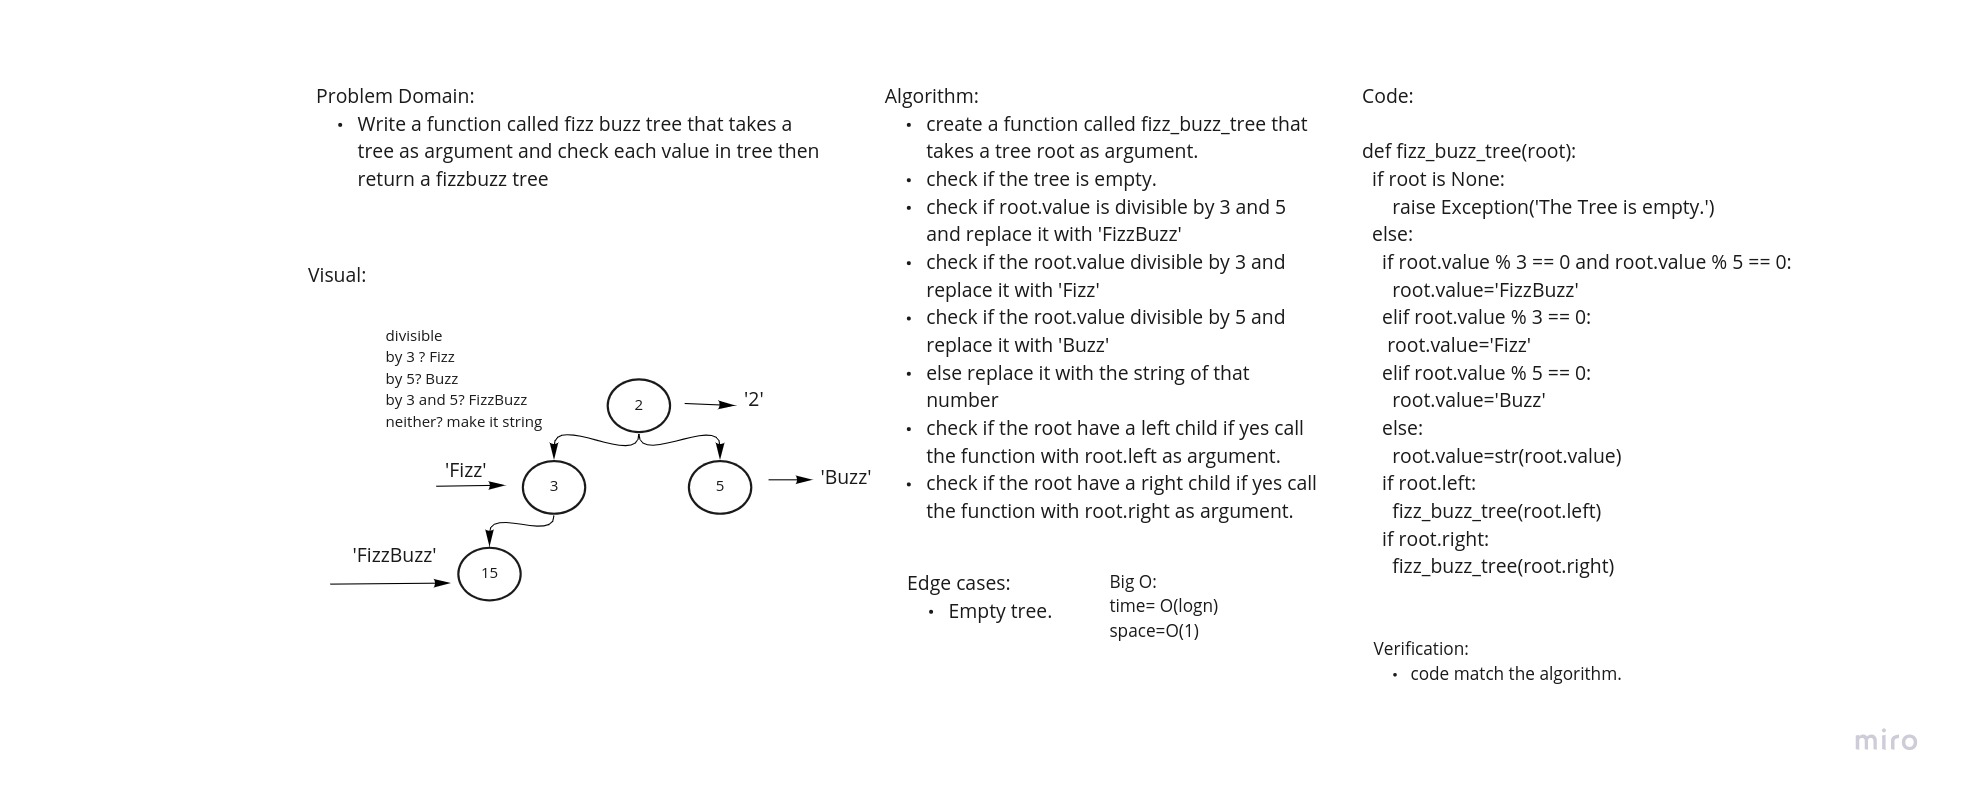
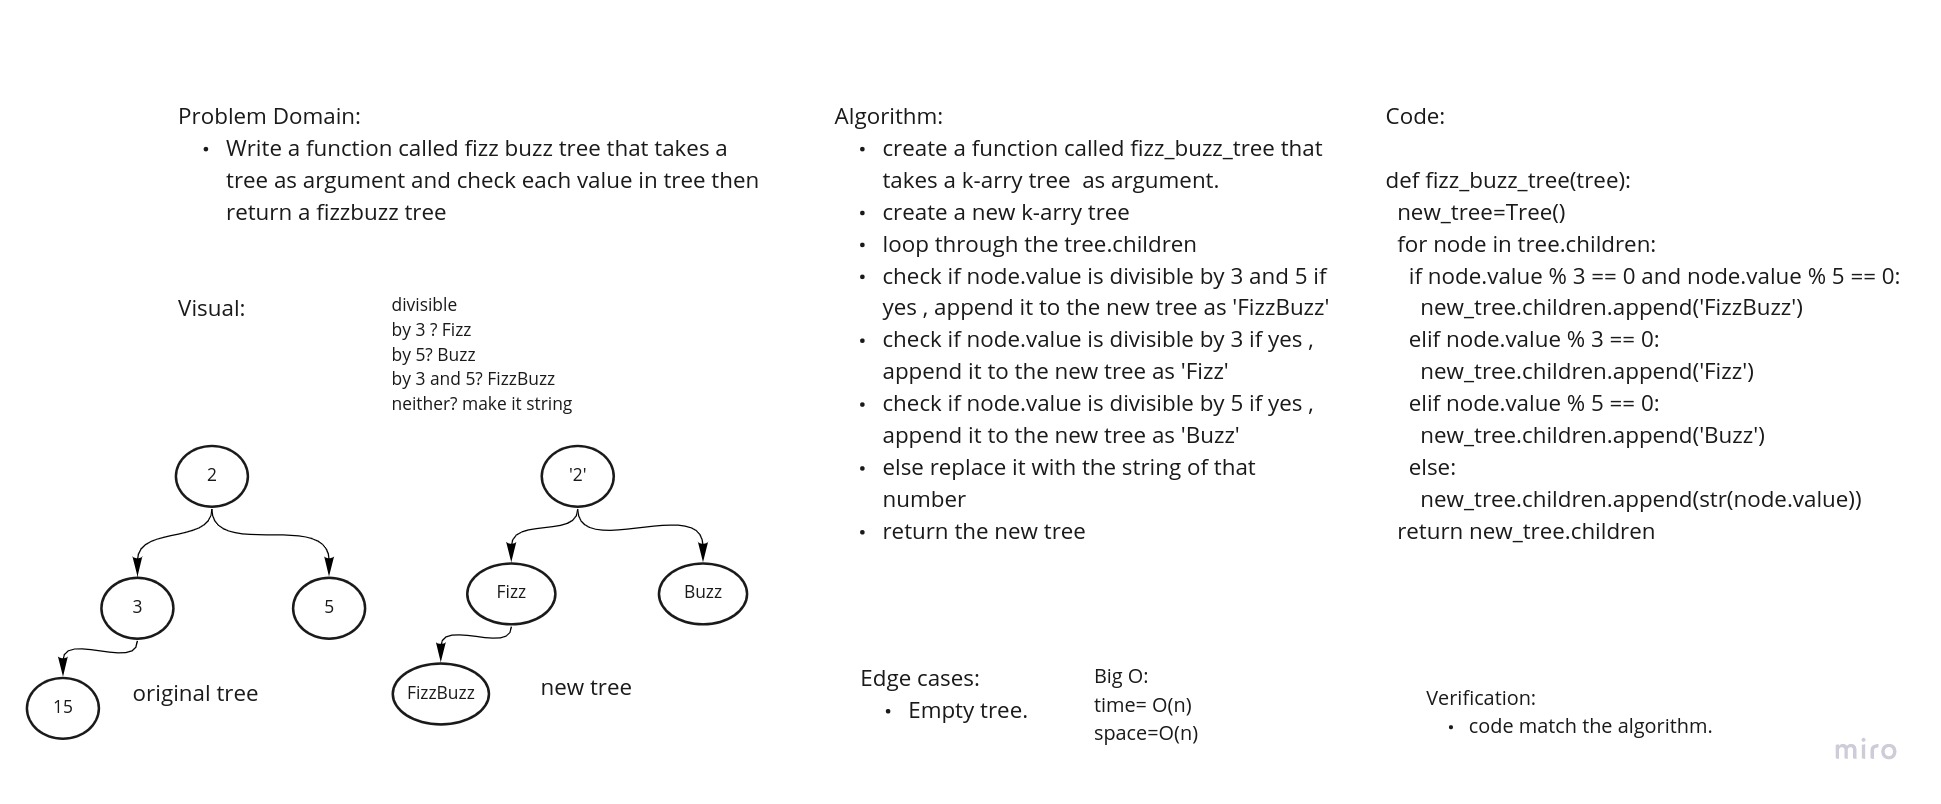
fix ch18

diff --git a/python/tree/tree/binary_tree.py b/python/tree/tree/binary_tree.py
@@ -63,6 +63,7 @@ class BinaryTree:
     return tree
 
 
+
 class BST(BinaryTree):
   def __init__(self):
     super().__init__()
@@ -140,42 +141,38 @@ def count_nodes(root):
         return 0
     return 1 + count_nodes(root.left) + count_nodes(root.right)
 
-def  fizz_buzz_tree(root):
 
+
+def sum_of_odds(root):
+  sum=0
   if root is None:
-      raise Exception('The Tree is empty.')
-  else:
-    if root.value % 3 == 0 and root.value % 5 == 0:
-      root.value='FizzBuzz'
-    elif root.value % 3 == 0:
-     root.value='Fizz'
-    elif root.value % 5 == 0:
-      root.value='Buzz'
-    else:
-      root.value=str(root.value)
+    raise Exception('The Tree is empty.')
+  else :
+    if root.value %2 == 1:
+      sum+=root.value
     if root.left:
-      fizz_buzz_tree(root.left)
+     sum+= sum_of_odds(root.left)
     if root.right:
-      fizz_buzz_tree(root.right)
+     sum+= sum_of_odds(root.right)
+  return sum
 
 
 
 
-
-
-if __name__ == "__main__":
-  bt = BinaryTree()
-  bt.root = Node(2)
-  bt.root.right = Node(5)
-  bt.root.left = Node(3)
-  bt.root.left.left = Node(15)
+# if __name__ == "__main__":
+  # bt = BinaryTree()
+  # bt.root = Node(2)
+  # bt.root.right = Node(5)
+  # bt.root.left = Node(3)
+  # bt.root.left.left = Node(15)
   # bt.root.left.right = Node(6)
   # bt.root.left.right.left = Node(5)
   # bt.root.left.right.right = Node(11)
   # bt.root.right.right = Node(9)
   # bt.root.right.right.left = Node(4)
   # print(count_nodes(bt.root))
-
+  # print(bt)
+  # print(fizz_buzz_tree(bt))
   # print(bfs)
 
   # print(bt.pre_order(bt.root))
@@ -189,6 +186,7 @@ if __name__ == "__main__":
   # b.add(b.root,3)
   # b.add(b.root,7)
   # b.add(b.root,2)
+  # print(sum_of_odds(b.root))
   # print(b)
   # # print(b.root.right.value)
 
@@ -199,6 +197,6 @@ if __name__ == "__main__":
   # print(b.post_order(b.root))
 
   # print(b.contains(b.root,7))
-  fizz_buzz_tree(bt.root)
-  print(bt)
-
+  # fizz_buzz_tree(bt.root)
+  # print(bt)
+  # bt = Tree()

diff --git a/python/tree/tree/k_arry_tree.py b/python/tree/tree/k_arry_tree.py
@@ -1,0 +1,34 @@
+from tree.binary_tree import Node
+
+
+class Tree():
+  def __init__(self) -> None:
+      self.children=[]
+
+
+
+def  fizz_buzz_tree(tree):
+  new_tree=Tree()
+  for node in tree.children:
+    if node.value % 3 == 0 and node.value % 5 == 0:
+      new_tree.children.append('FizzBuzz')
+    elif node.value % 3 == 0:
+      new_tree.children.append('Fizz')
+    elif node.value % 5 == 0:
+      new_tree.children.append('Buzz')
+    else:
+      new_tree.children.append(str(node.value))
+  return new_tree.children
+
+
+
+
+
+if __name__== "__main__":
+  tree=Tree()
+  tree.children.append(Node(18))
+  tree.children.append(Node(9))
+  tree.children.append(Node(1))
+  tree.children.append(Node(4))
+  tree.children.append(Node(13))
+  print(fizz_buzz_tree(tree))

diff --git a/python/tree/tests/test_binary_tree.py b/python/tree/tests/test_binary_tree.py
@@ -1,4 +1,4 @@
-from tree.binary_tree import Node, BinaryTree, BST, breadth_first, fizz_buzz_tree
+from tree.binary_tree import Node, BinaryTree, BST, breadth_first
 
 
 
@@ -65,11 +65,3 @@ def test_breadth_first():
   assert breadth_first(bt.root) == [2, 7, 5, 2, 6, 9, 5, 11, 4]
 
 
-def test_fizz_buzz():
-  bt = BinaryTree()
-  bt.root = Node(2)
-  bt.root.right = Node(5)
-  bt.root.left = Node(3)
-  bt.root.left.left = Node(15)
-  fizz_buzz_tree(bt.root)
-  assert str(bt) ==  "2 Fizz FizzBuzz Buzz "

diff --git a/python/tree/tests/test_fizz_buzz.py b/python/tree/tests/test_fizz_buzz.py
@@ -1,0 +1,18 @@
+from tree.k_arry_tree import Tree,fizz_buzz_tree
+from tree.binary_tree import Node
+
+
+
+def test_fizz_buzz():
+  tree=Tree()
+  tree.children.append(Node(18))
+  tree.children.append(Node(5))
+  tree.children.append(Node(1))
+  tree.children.append(Node(4))
+  tree.children.append(Node(15))
+  assert fizz_buzz_tree(tree) == ['Fizz', 'Buzz', '1', '4', 'FizzBuzz']
+
+def test_fizz_buzz_empty():
+  tree=Tree()
+  assert fizz_buzz_tree(tree) == []
+

diff --git a/python/README.md b/python/README.md
@@ -16,6 +16,6 @@
 10|[Challenge 13](stack-queue/stack_queue/bracket.py) / [Challenge 13 test](stack-queue/tests/test_brackets.py) / [ Whiteboard](img/ch13.jpg)
 11|[Challeng 16](tree/tree/binary_tree.py) / [Challenge 16 test](tree/tests/test_binary_tree.py) / [Whiteboard](img/ch16.jpg)
 12|[Challeng 17](tree/tree/binary_tree.py) / [Challenge 17 test](tree/tests/test_binary_tree.py) / [Whiteboard](img/ch17.jpg)
-13|[Challeng 18](tree/tree/binary_tree.py) / [Challenge 18 test](tree/tests/test_binary_tree.py) / [Whiteboard](img/ch18.jpg)
+13|[Challeng 18](tree/tree/k_arry_tree.py) / [Challenge 18 test](tree/tests/test_fizz_buzz.py) / [Whiteboard](img/ch18.jpg)
 14|
 15|
